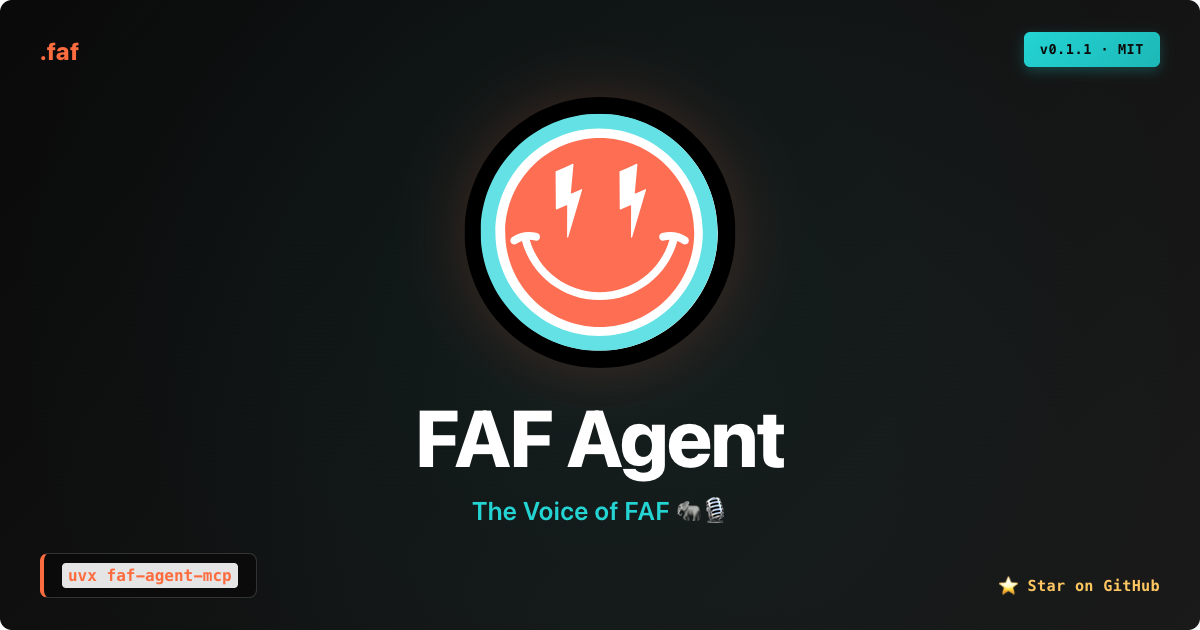
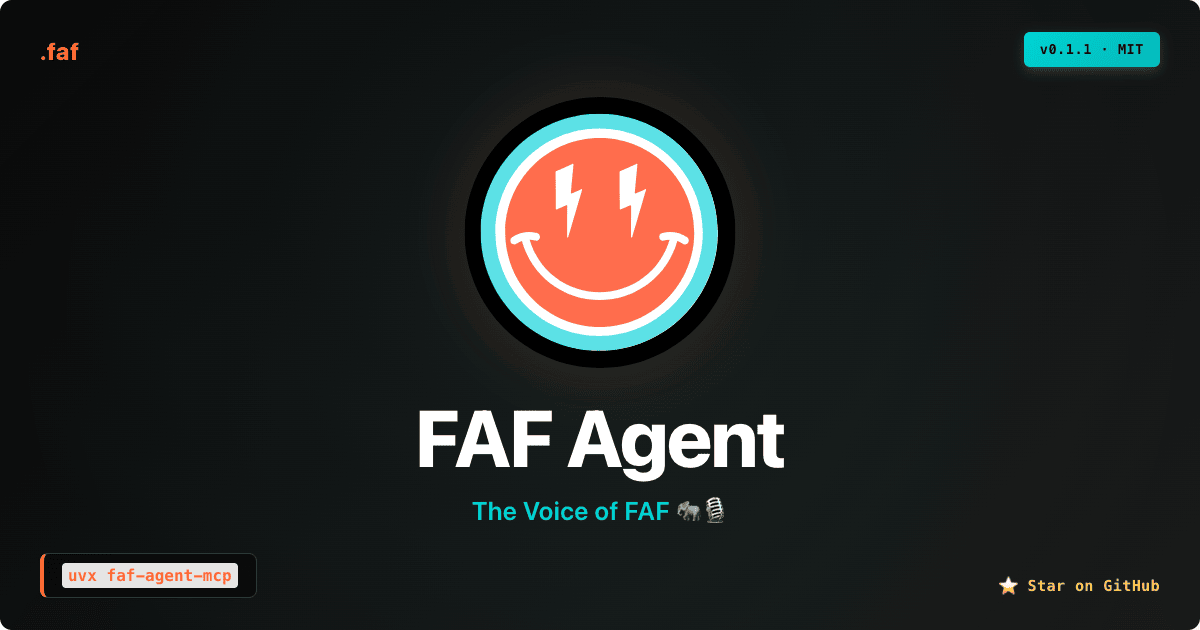
fix: /agent JSON-LD format-grade + OG image compression (411 KB → 42 KB)
Two drift items surfaced by the 2026-05-09 live audit, both fixed in one
commit since both improve brand-surface honesty for v0.1.1.

1. src/routes/agent/+page.svelte line 21 — softwareSchema.description
   - was: "Narrow-domain MCP server that cites the FAF spec..."
   - now: "Format-grade MCP that cites the FAF spec..."

   The human-visible <meta name="description"> was updated in the
   format-grade rollout (be02328) but the JSON-LD softwareSchema.description
   field was missed. Search engines / AI crawlers parsing structured data
   were still seeing the old defensive framing. Now consistent with the
   format-grade vocabulary doctrine (Tier 1 of the 5-tier roadmap, locked
   in memory: formats-just-work-format-grade.md).

2. static/og/agent-og-1200x630.png — pngquant compression
   - before: 411,042 bytes (over the 200 KB WhatsApp threshold)
   - after:   42,170 bytes (~90% reduction, well under threshold)
   - method: pngquant --quality=82-92 --strip --skip-if-larger
   - dimensions preserved: 1200×630 exact
   - format: 8-bit colormap (palette-indexed) — perfect for the OG card's
     limited palette (dark gradient + Dorothy + 4 text colors + cyan)

   Per the 2026 OG best-practice research locked earlier this session:
   "Target file size <200 KB for WhatsApp compatibility". 42 KB is well
   inside that envelope. Renders identically on X / LinkedIn / Discord /
   Slack / iMessage with no perceptible quality loss; now also renders
   reliably on WhatsApp.
[…]

diff --git a/src/routes/agent/+page.svelte b/src/routes/agent/+page.svelte
@@ -18,7 +18,7 @@
 		"applicationCategory": "DeveloperApplication",
 		"operatingSystem": "Any (Python 3.10+)",
 		"softwareVersion": "0.1.1",
-		"description": "Narrow-domain MCP server that cites the FAF spec on every answer or refuses out of scope. Six tools, the size of FAF.",
+		"description": "Format-grade MCP that cites the FAF spec on every answer or refuses out of scope. Six tools, the size of FAF.",
 		"url": "https://faf.one/agent",
 		"downloadUrl": "https://pypi.org/project/faf-agent-mcp/",
 		"license": "https://opensource.org/licenses/MIT",
